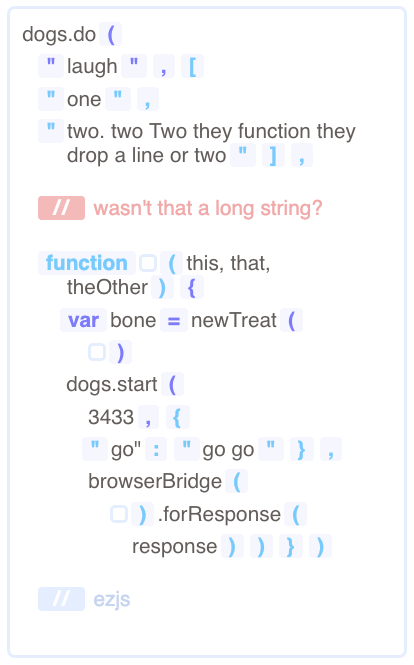
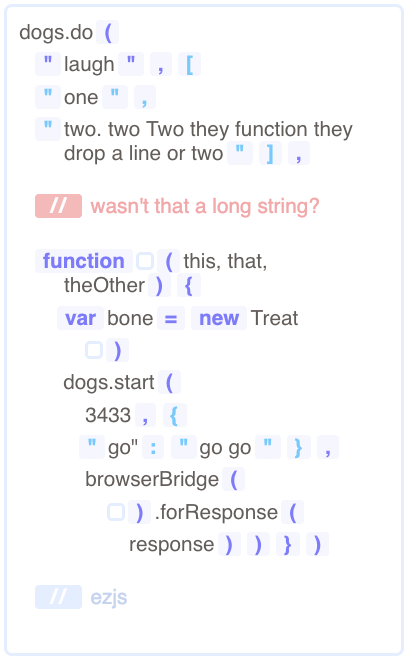
New version of parse-a-little-js handles instantiation. Object and array symbols are all sorted

diff --git a/demo.js b/demo.js
@@ -13,7 +13,7 @@ library.using([
       "  \"two. two Two they function they drop a line or two\"],",
       "  // wasn't that a long string?",
       "  function (this, that, theOther) {",
-      "    var bone =newTreat(",
+      "    var bone = new Treat(",
       "      )",
       "    dogs.start(",
       "      3433,{",

diff --git a/render-code.js b/render-code.js
@@ -85,7 +85,7 @@ module.exports = library.export(
         }
       }
 
-      function noticeClosingSymbol(stack, sym) {
+      function noticeClosingSymbol(sym) {
         if (sym == "]") {
           var peek = stack.pop()
           if (peek != "array literal") {
